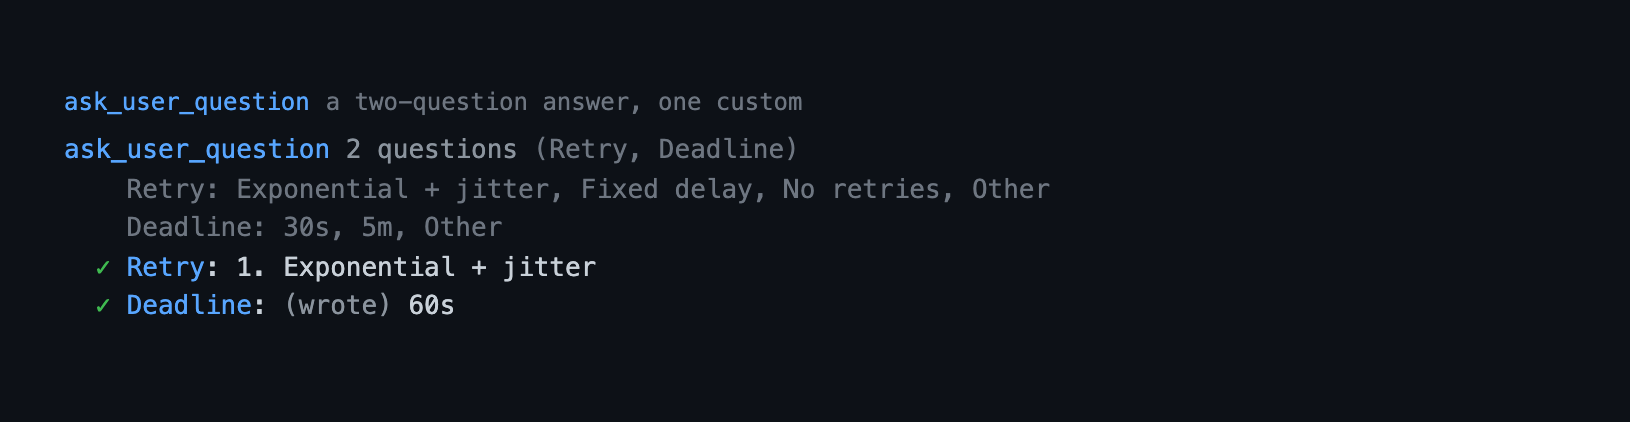
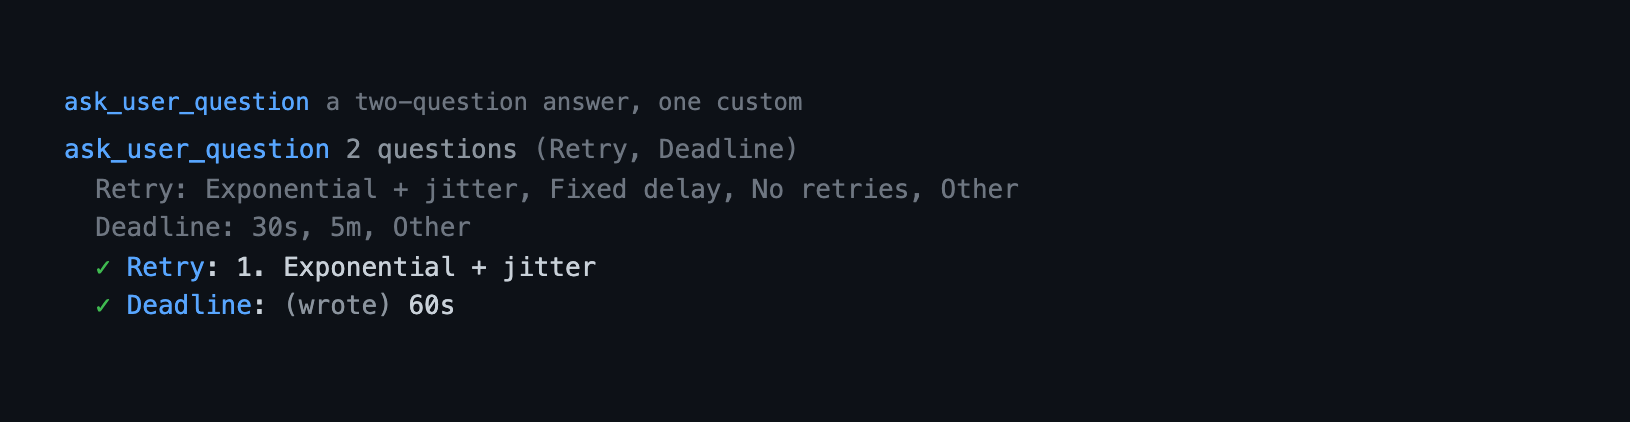
fix(subagent,question): drop the call lines' own continuation indent
The subagent task/step list and the ask_user_question option list prefixed their
continuation lines by two columns, on top of the BODY_INDENT the tool-block
frame already applies, so they sat two columns deeper than the rest of the body.
Let the frame supply the indent, so a block's whole body reads at one margin.

Regenerates assets/tool-renderings.png with the subagent and ask_user_question
images.

Changed region(s): [[0.0613, 0.4005, 0.6442, 0.5853]]

diff --git a/extensions/subagent/render.ts b/extensions/subagent/render.ts
@@ -242,7 +242,11 @@ export function renderSubagentCall(args: SubagentArgs, theme: Theme, context?: S
 	return text;
 }
 
-/** The call-line string for the requested mode. */
+/**
+ * The call-line string for the requested mode. Continuation lines carry no
+ * indent of their own: the tool-block frame headlines the first line and
+ * indents the rest by `BODY_INDENT`.
+ */
 function callText(args: SubagentArgs, theme: Theme, context?: { cwd?: string }): string {
 	const title =
 		theme.fg("toolTitle", theme.bold("subagent ")) + (args.readOnly ? paint(theme, "faint", "read-only ") : "");
@@ -256,9 +260,9 @@ function callText(args: SubagentArgs, theme: Theme, context?: { cwd?: string }):
 		for (let i = 0; i < Math.min(args.chain.length, 3); i++) {
 			const step = args.chain[i];
 			const clean = sanitizeLine(step.task.replace(/\{previous\}/g, ""));
-			text += `\n  ${paint(theme, "meta", `${i + 1}.`)} ${paint(theme, "accent", sanitizeLine(step.agent))}${paint(theme, "faint", ` ${clip(clean, 40)}`)}${cwdNote(step.cwd)}`;
+			text += `\n${paint(theme, "meta", `${i + 1}.`)} ${paint(theme, "accent", sanitizeLine(step.agent))}${paint(theme, "faint", ` ${clip(clean, 40)}`)}${cwdNote(step.cwd)}`;
 		}
-		if (args.chain.length > 3) text += `\n  ${paint(theme, "meta", `… +${args.chain.length - 3} more`)}`;
+		if (args.chain.length > 3) text += `\n${paint(theme, "meta", `… +${args.chain.length - 3} more`)}`;
 		return text;
 	}
 
@@ -267,15 +271,15 @@ function callText(args: SubagentArgs, theme: Theme, context?: { cwd?: string }):
 			title + paint(theme, "accent", `parallel · ${args.tasks.length} task${args.tasks.length > 1 ? "s" : ""}`);
 		for (let i = 0; i < Math.min(args.tasks.length, 3); i++) {
 			const task = args.tasks[i];
-			text += `\n  ${paint(theme, "meta", `${i + 1}.`)} ${paint(theme, "accent", sanitizeLine(task.agent))}${paint(theme, "faint", ` ${clip(sanitizeLine(task.task), 40)}`)}${cwdNote(task.cwd)}`;
+			text += `\n${paint(theme, "meta", `${i + 1}.`)} ${paint(theme, "accent", sanitizeLine(task.agent))}${paint(theme, "faint", ` ${clip(sanitizeLine(task.task), 40)}`)}${cwdNote(task.cwd)}`;
 		}
-		if (args.tasks.length > 3) text += `\n  ${paint(theme, "meta", `… +${args.tasks.length - 3} more`)}`;
+		if (args.tasks.length > 3) text += `\n${paint(theme, "meta", `… +${args.tasks.length - 3} more`)}`;
 		return text;
 	}
 
 	const agentName = sanitizeLine(args.agent || "…");
 	let text = title + paint(theme, "accent", agentName) + cwdNote(args.cwd);
-	text += `\n  ${paint(theme, "faint", clip(sanitizeLine(args.task ?? "…"), 60))}`;
+	text += `\n${paint(theme, "faint", clip(sanitizeLine(args.task ?? "…"), 60))}`;
 	return text;
 }
 

diff --git a/extensions/question/tools.ts b/extensions/question/tools.ts
@@ -77,9 +77,10 @@ export function registerTools(pi: ExtensionAPI): void {
 			let text = theme.fg("toolTitle", theme.bold(`${TOOL_NAME} `)) + paint(theme, "meta", `${count} ${noun}`);
 			if (headers.length > 0) text += paint(theme, "faint", ` (${headers.join(", ")})`);
 
-			// One indented line per question that offers options, so a long option list
-			// stays mapped to its question instead of wrapping on a single row.
-			for (const line of optionSummary(raw)) text += `\n${paint(theme, "faint", `  ${line}`)}`;
+			// One line per question that offers options, so a long option list stays
+			// mapped to its question instead of wrapping on a single row. The line
+			// carries no indent of its own; the tool-block frame supplies it.
+			for (const line of optionSummary(raw)) text += `\n${paint(theme, "faint", line)}`;
 
 			const component = reuseText(context?.lastComponent);
 			component.setText(text);

diff --git a/extensions/subagent/render.test.ts b/extensions/subagent/render.test.ts
@@ -63,6 +63,24 @@ describe("renderSubagentCall", () => {
 		expect(text).toContain("2. planner");
 	});
 
+	test("continuation lines carry no indent of their own", () => {
+		// The tool-block frame indents everything after the headline by `BODY_INDENT`.
+		const lines = render(
+			renderSubagentCall(
+				{
+					tasks: [
+						{ agent: "explorer", task: "a" },
+						{ agent: "planner", task: "b" },
+					],
+				},
+				theme,
+			),
+		).split("\n");
+		expect(lines).toHaveLength(3);
+		expect(lines[1]?.startsWith("1.")).toBe(true);
+		expect(lines[2]?.startsWith("2.")).toBe(true);
+	});
+
 	test("chain mode numbers steps and strips the placeholder", () => {
 		const text = render(
 			renderSubagentCall(

diff --git a/extensions/question/tools.test.ts b/extensions/question/tools.test.ts
@@ -26,8 +26,9 @@ describe("ask_user_question transcript rendering", () => {
 			.render(80)
 			.map((line: string) => line.trimEnd());
 		expect(lines[0]).toContain("ask_user_question 2 questions (Auth, Scope)");
-		expect(lines[1]).toBe("  Auth: OAuth, Cookies, Other");
-		expect(lines[2]).toBe("  Scope: repo, org, Other");
+		// No indent of its own; the tool-block frame supplies BODY_INDENT.
+		expect(lines[1]).toBe("Auth: OAuth, Cookies, Other");
+		expect(lines[2]).toBe("Scope: repo, org, Other");
 	});
 
 	test("a free-form question adds no options line", () => {

diff --git a/CHANGELOG.md b/CHANGELOG.md
@@ -123,6 +123,10 @@ to [Semantic Versioning](https://semver.org/spec/v2.0.0.html).
   selection-marker column (the interactive `/jobs` and `/watch` screens keep
   it), so their status glyphs sit at the body indent instead of two columns
   deeper.
+- `subagent`, `ask_user_question`: the call's continuation lines (a task/step
+  list, or a per-question option list) no longer indent themselves, so they sit
+  at the body indent instead of two columns deeper — the tool-block frame
+  already supplies it.
 - `plan`: the browser review's sidebar hint now names `a` on a review that can
   approve and points at `?` for the full shortcut list, instead of listing only
   `j`/`k`/`c`/`s` after approval moved onto the page.
